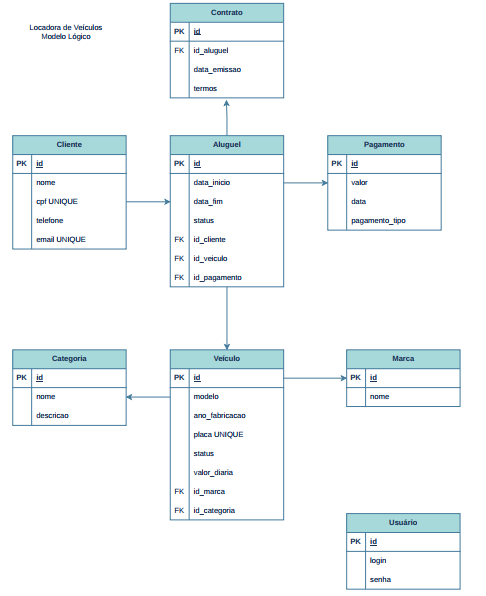
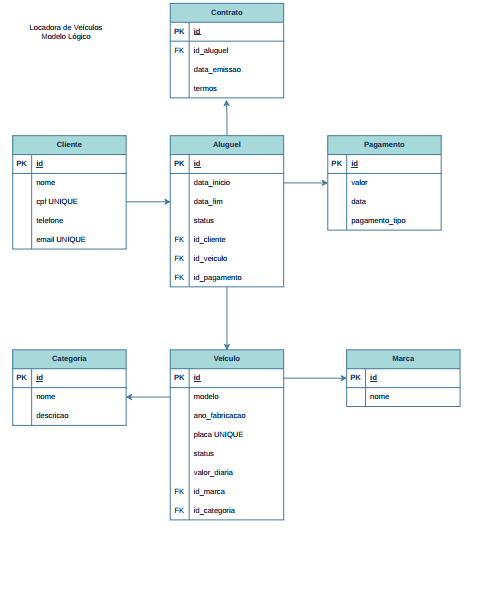
feat/update BD

Changed region(s): [[0.7099, 0.8456, 0.9568, 0.9966]]

diff --git a/aluguel/listarAluguel.php b/aluguel/listarAluguel.php
@@ -2,7 +2,8 @@
 
 include("../config/conexao.php");
 
-$sql = "SELECT * FROM vw_listaralugueis";
+$sql = "SELECT * FROM vw_listaralugueis
+ORDER BY id DESC";
 
 $resultado = mysqli_query($conexao, $sql);
 